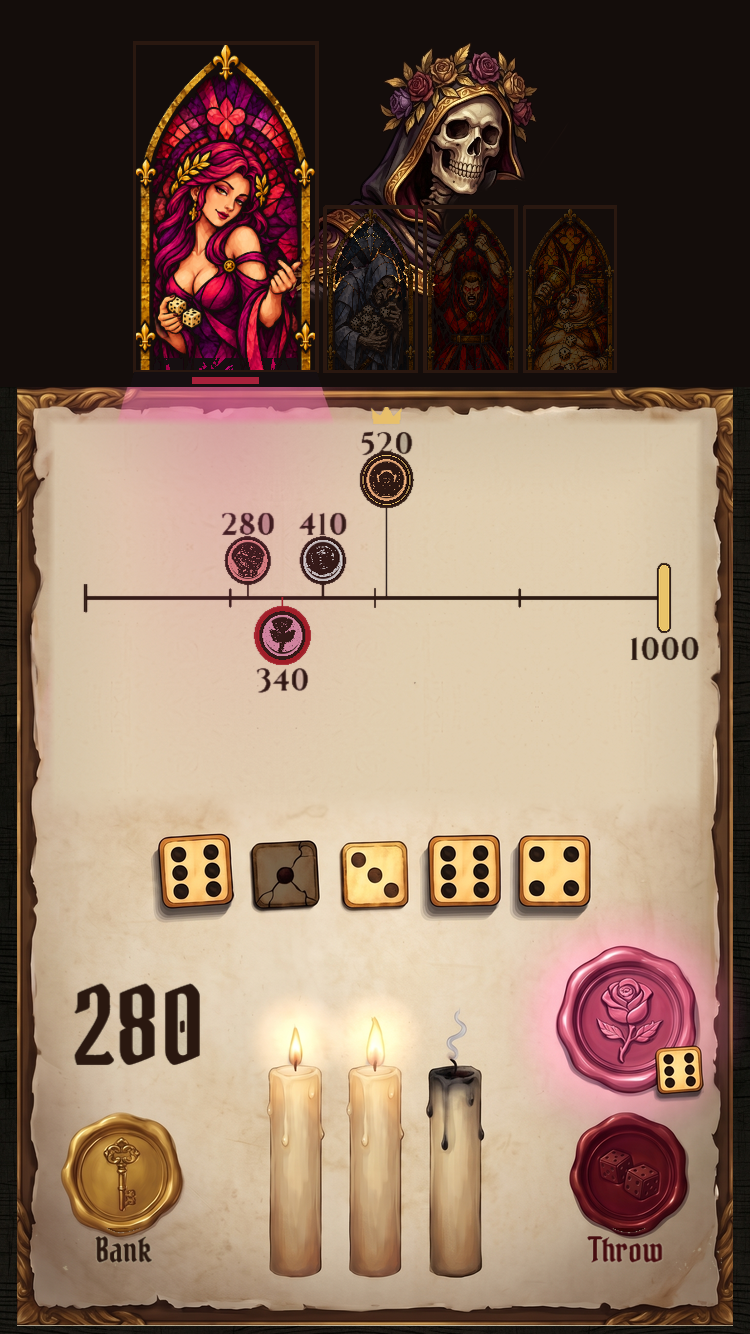
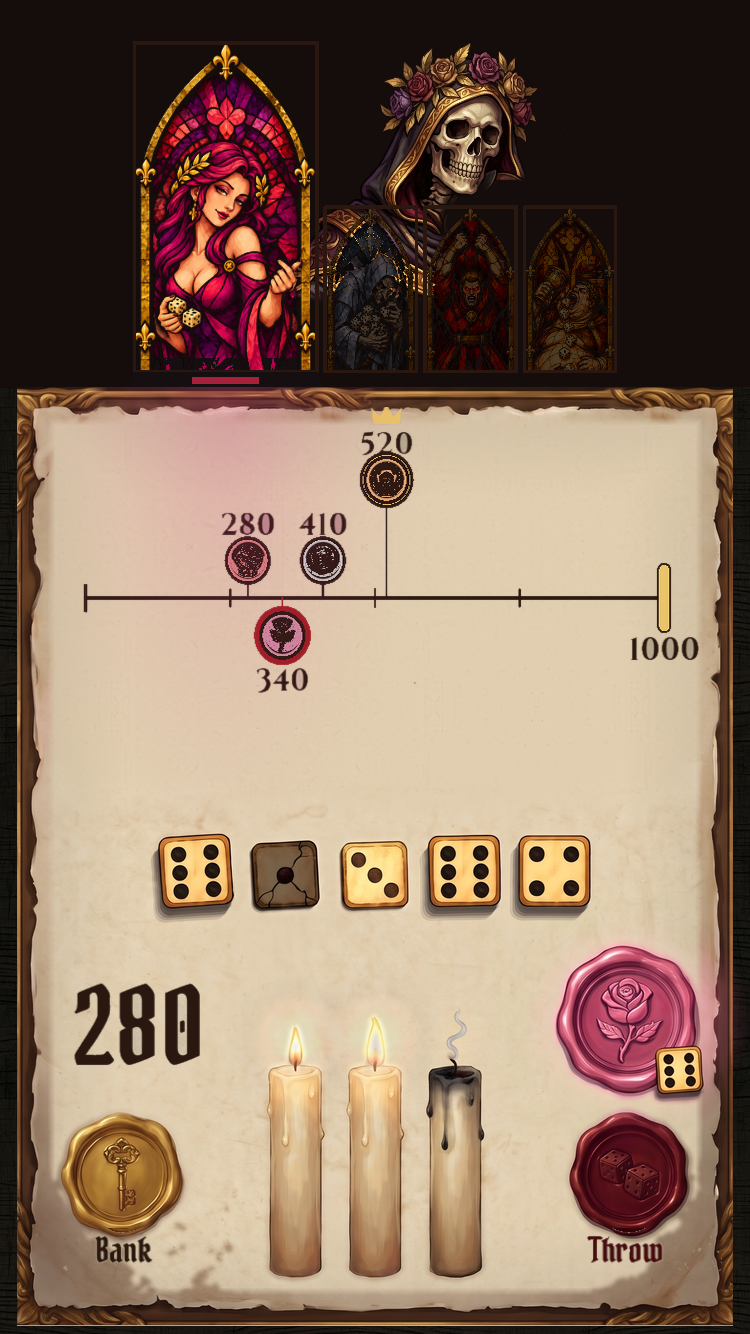
review: packet for REPLY 37 item 1 (Continue save fix, its test, suite 14 of 14) and REPLY 38 items 2 and 4 (token readability sheets at 4 and 7, std and SE; composite without the seam and the hard pink light); items 2+4 packet archived

diff --git a/Docs/review/latest/packet.md b/Docs/review/latest/packet.md
@@ -1,25 +1,27 @@
-# Packet: REPLY 35 items 2 and 4 (a followable rival turn, the 10 s measure; frame composite, Greed quote)
-**Local only. 0 credits. Proposal, sheets and sim; no game code changed.** Details: `proposal.md`, `gaps.txt`. Sim tool: `sim/match_sim.gd` (adds the seconds between your decisions and a beat scale).
-**Item 2: a rival's turn as held beats** (`strip_sheet.png`: Wrath's turn at a table of 4, today's art, each beat with its minimum and what it must show).
-- Beats: turn start 0.6 s, throw 0.7, result 0.9, power 0.7, then bank 0.9 or bust 1.4. The line stays 2.5 s, and the turn waits for it.
-- Every beat shows who acted, scored or lost, the new total and any power, without words.
-- New on the table: the rival's token pulses at its turn start; the stake flies to the token, which slides as its label counts up; on a bust the kept half flies.
-- Seconds (normal game, sim):
-  - A bot turn: median 8.2 s (p90 10.6). Today: 4.1.
-  - A round: 43 s at 4 seats, 69 s at 7.
-  - A match: 3.9 min at 4 seats, 5.8 at 7.
-- **The 10 s measure fails on pacing alone.** Inside your turn: 3.6 s between decisions. From your last decision to your next turn: 34.6 s at 4 seats and 60.4 s at 7. At Fast (beats halved) it is still 21.8 s and 36.0 s.
-- It can only hold with a decision of yours inside each rival's turn (item 3). The gap is then one rival turn: median 8.2 s, with 18% over 10 s. A prompt at most every second rival throw caps it.
-- `TableDesign.md` §5: the 2.5 s (and the table's 4 s) bot-turn target is dropped, and the floor is marked as under review.
-**Item 4: frame composite** (`frame_sheet.png`: today | try 2 | composite | composite + SE lock boxes; `composite_750.png`). Not wired. Made earlier; you have not yet seen it.
-- The arch is gone.
-- The page inside the border is flat parchment with try 2's fine grain, down to just above the dice. Try 2's track, baked light and grey stain are gone; the only light is the soft one.
-- The track ink is squeezed 4.4% about the centre and now runs x 83-699 at SE (the border's inner edge is at 707). Today "1000" ran to 714, 7 px under the border.
-- Labels moved, in SE px: 1000 −11/−16; 280 +7/+4; 340 +6/+3; 410 +4/+1; 520 +1/−2. No window or lock box moved.
-- The fill fades into try 2's page over 30 px above the dice.
-**Item 5: Greed dice, a quote only.** One NB 2.1 painted edit of `greed.png` (223x760): **12 credits** at 1K, 18 at 2K; the upload is free. It goes in padded to 9:16 and is cropped back. Balance: 126. Not generated.
+# Packet: REPLY 37 item 1 (Continue save) and REPLY 38 items 2 and 4 (token sheet, composite)
+**Local only. 0 credits. No push.** I had not read REPLY 37: the inbox watch was stopped, and REPLY 38 replaced it in the inbox file. I read it in `inbox/sent/` and have now built it.
+**REPLY 37 item 1, Continue save:**
+- A finished game now deletes the save only when saving is on (`ui/main.gd`, 641e55e). Tests and tools leave the real save alone.
+- New `tests/save_check.gd` (63a4183):
+  - (A) a real game saves as you play, and its end deletes the save;
+  - (B1) a test's game with no save on disk writes none, so Continue has nothing to offer;
+  - (B2) with a real save on disk, a test's game leaves it byte for byte.
+  - Proof that no stale save can appear: a test's game never writes one (`_save_game` returns when saving is off), and (B1)/(B2) check this.
+  - Against the old `main.gd`, (B2) fails.
+- **Suite:** load check passed (109 scripts and scenes); 14 of 14 tests pass, `save_check` included. `run_all.sh` still sets the Continue save aside around the run.
+**REPLY 38 item 2, token sheet** (`tokens_se.png` at 0.85 of SE device px, `tokens_std.png` at 0.54 of std). Gluttony banks 180 at a table of 4 and a table of 7. The columns are: turn start (its token pulses), the stake flying to its token, and the token sliding as its label counts (a real render at 640). The first row shows tokens as today; the second shows rings in each Sin's colour, plus a thread of light from its window at turn start.
+- How the eye finds the rival's token without reading the number:
+  - Today's tokens: only by motion (the pulse, then the slide). At a table of 4, Gluttony's, Greed's and Wrath's tokens are all dark at this size.
+  - With rings: the ring's colour matches the lit window, and the thread links window to token.
+- What the sheets show:
+  - At 7, when Gluttony reaches 640 it takes the upper row and Envy's 610 token drops a row, so two tokens move in one beat.
+  - At 7, the stake ends between Gluttony's and Envy's stems.
+  - At 7, my slide trail crosses the "610" label.
+**REPLY 38 item 4, composite** (`frame_sheet.png`: today | the last composite | this one | this one + SE lock boxes; `composite_750.png`). Not wired.
+- The seam: the page below the dice is now flattened the same way as the top, on parchment pixels only, starting 60 px inside the top fill. The 30 px band is gone.
+- The pink rectangle: try 2's own baked light on the top border is replaced from the same rows further right.
+- Left: stains within about 30 px of the border, and a few small dark blots at the foot of the page. The soft light is unchanged.
 **Questions**
-1. Do the beats and what each shows (strip sheet) go forward as the pacing floor? Rec: yes. Build them with the pace-test floors raised in the same commit.
-2. Settle the 10 s measure in item 3, with a decision of yours inside each rival's turn, rather than by speeding rivals up? Rec: yes.
-3. Composite: is the page clean enough to brief a painted pass? Rec: judge `composite_750.png` at phone size.
-4. Greed dice edit for 12 credits? Rec: yes, at 1K.
+1. Tokens: rings in each Sin's colour plus the thread at turn start (row 2)? Rec: yes, rings at least. Motion alone fails when two tokens move at 7.
+2. At 7, should restacking wait for the slide's end, so only one token moves in a rival's beat? Rec: yes.
+3. Composite: judge `composite_750.png` at phone size before any painted pass. Rec: yes.

diff --git a/Docs/review/archive/2026-11-18-reply35-items2-4/packet.md b/Docs/review/archive/2026-11-18-reply35-items2-4/packet.md
@@ -1,0 +1,25 @@
+# Packet: REPLY 35 items 2 and 4 (a followable rival turn, the 10 s measure; frame composite, Greed quote)
+**Local only. 0 credits. Proposal, sheets and sim; no game code changed.** Details: `proposal.md`, `gaps.txt`. Sim tool: `sim/match_sim.gd` (adds the seconds between your decisions and a beat scale).
+**Item 2: a rival's turn as held beats** (`strip_sheet.png`: Wrath's turn at a table of 4, today's art, each beat with its minimum and what it must show).
+- Beats: turn start 0.6 s, throw 0.7, result 0.9, power 0.7, then bank 0.9 or bust 1.4. The line stays 2.5 s, and the turn waits for it.
+- Every beat shows who acted, scored or lost, the new total and any power, without words.
+- New on the table: the rival's token pulses at its turn start; the stake flies to the token, which slides as its label counts up; on a bust the kept half flies.
+- Seconds (normal game, sim):
+  - A bot turn: median 8.2 s (p90 10.6). Today: 4.1.
+  - A round: 43 s at 4 seats, 69 s at 7.
+  - A match: 3.9 min at 4 seats, 5.8 at 7.
+- **The 10 s measure fails on pacing alone.** Inside your turn: 3.6 s between decisions. From your last decision to your next turn: 34.6 s at 4 seats and 60.4 s at 7. At Fast (beats halved) it is still 21.8 s and 36.0 s.
+- It can only hold with a decision of yours inside each rival's turn (item 3). The gap is then one rival turn: median 8.2 s, with 18% over 10 s. A prompt at most every second rival throw caps it.
+- `TableDesign.md` §5: the 2.5 s (and the table's 4 s) bot-turn target is dropped, and the floor is marked as under review.
+**Item 4: frame composite** (`frame_sheet.png`: today | try 2 | composite | composite + SE lock boxes; `composite_750.png`). Not wired. Made earlier; you have not yet seen it.
+- The arch is gone.
+- The page inside the border is flat parchment with try 2's fine grain, down to just above the dice. Try 2's track, baked light and grey stain are gone; the only light is the soft one.
+- The track ink is squeezed 4.4% about the centre and now runs x 83-699 at SE (the border's inner edge is at 707). Today "1000" ran to 714, 7 px under the border.
+- Labels moved, in SE px: 1000 −11/−16; 280 +7/+4; 340 +6/+3; 410 +4/+1; 520 +1/−2. No window or lock box moved.
+- The fill fades into try 2's page over 30 px above the dice.
+**Item 5: Greed dice, a quote only.** One NB 2.1 painted edit of `greed.png` (223x760): **12 credits** at 1K, 18 at 2K; the upload is free. It goes in padded to 9:16 and is cropped back. Balance: 126. Not generated.
+**Questions**
+1. Do the beats and what each shows (strip sheet) go forward as the pacing floor? Rec: yes. Build them with the pace-test floors raised in the same commit.
+2. Settle the 10 s measure in item 3, with a decision of yours inside each rival's turn, rather than by speeding rivals up? Rec: yes.
+3. Composite: is the page clean enough to brief a painted pass? Rec: judge `composite_750.png` at phone size.
+4. Greed dice edit for 12 credits? Rec: yes, at 1K.
